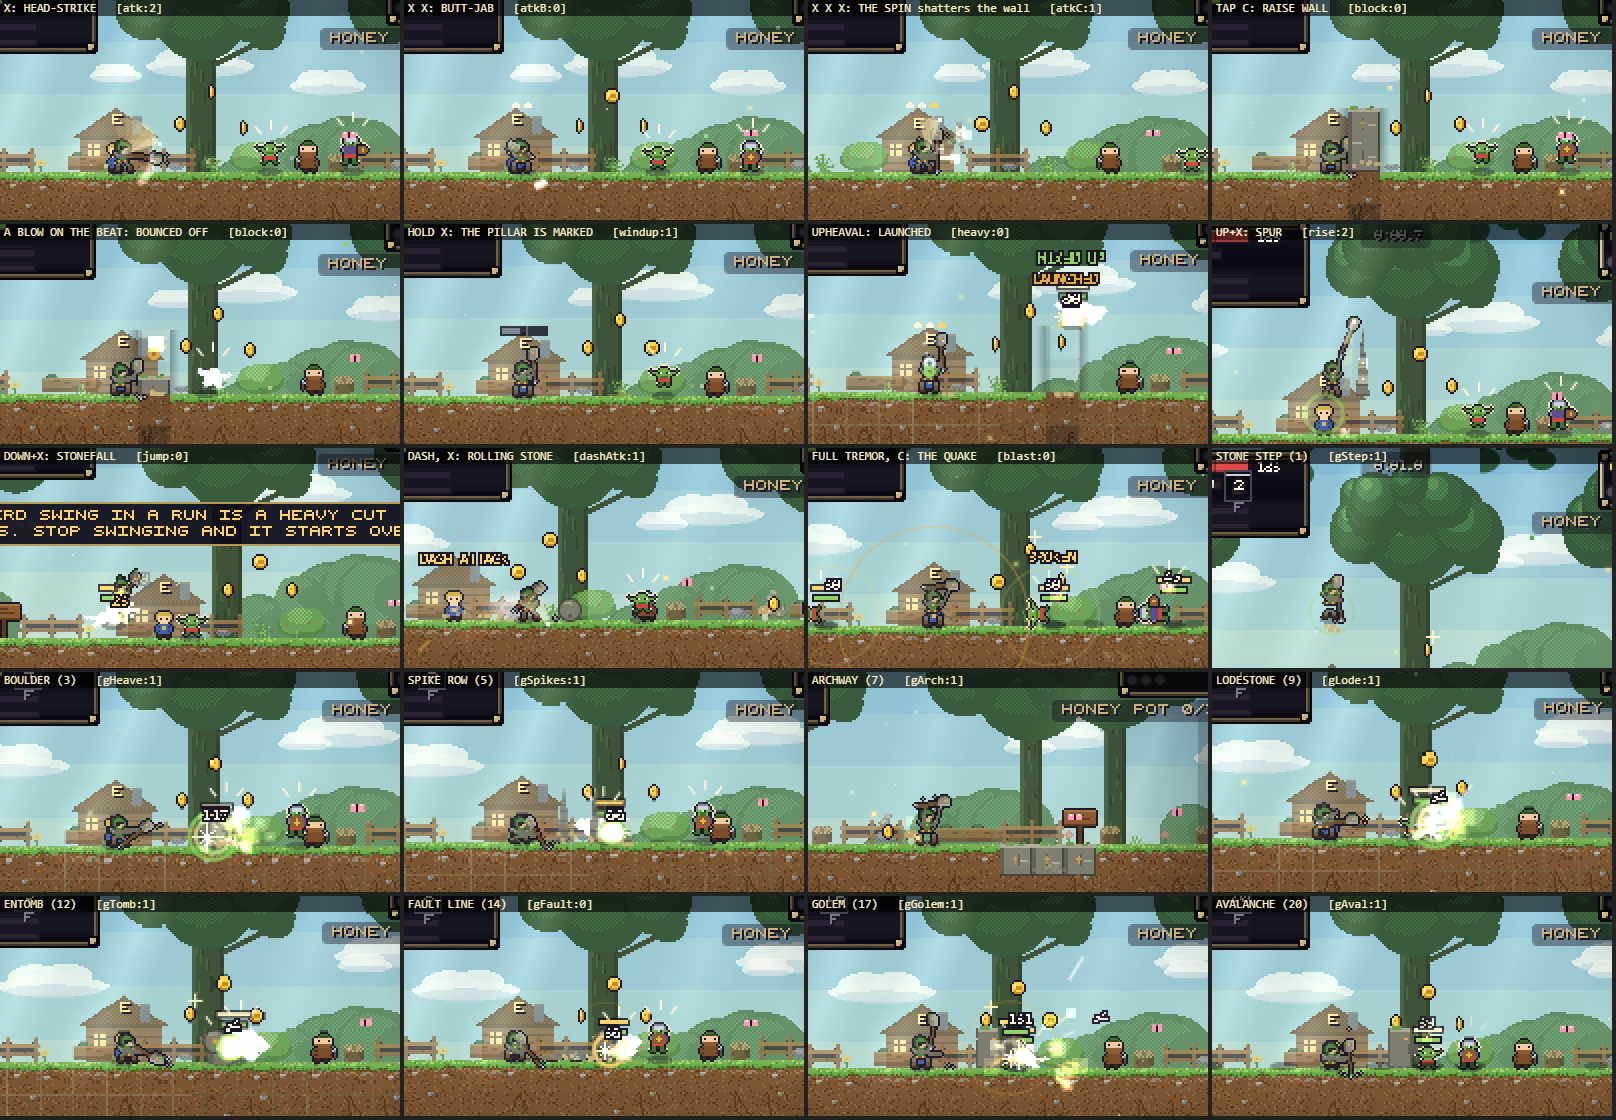
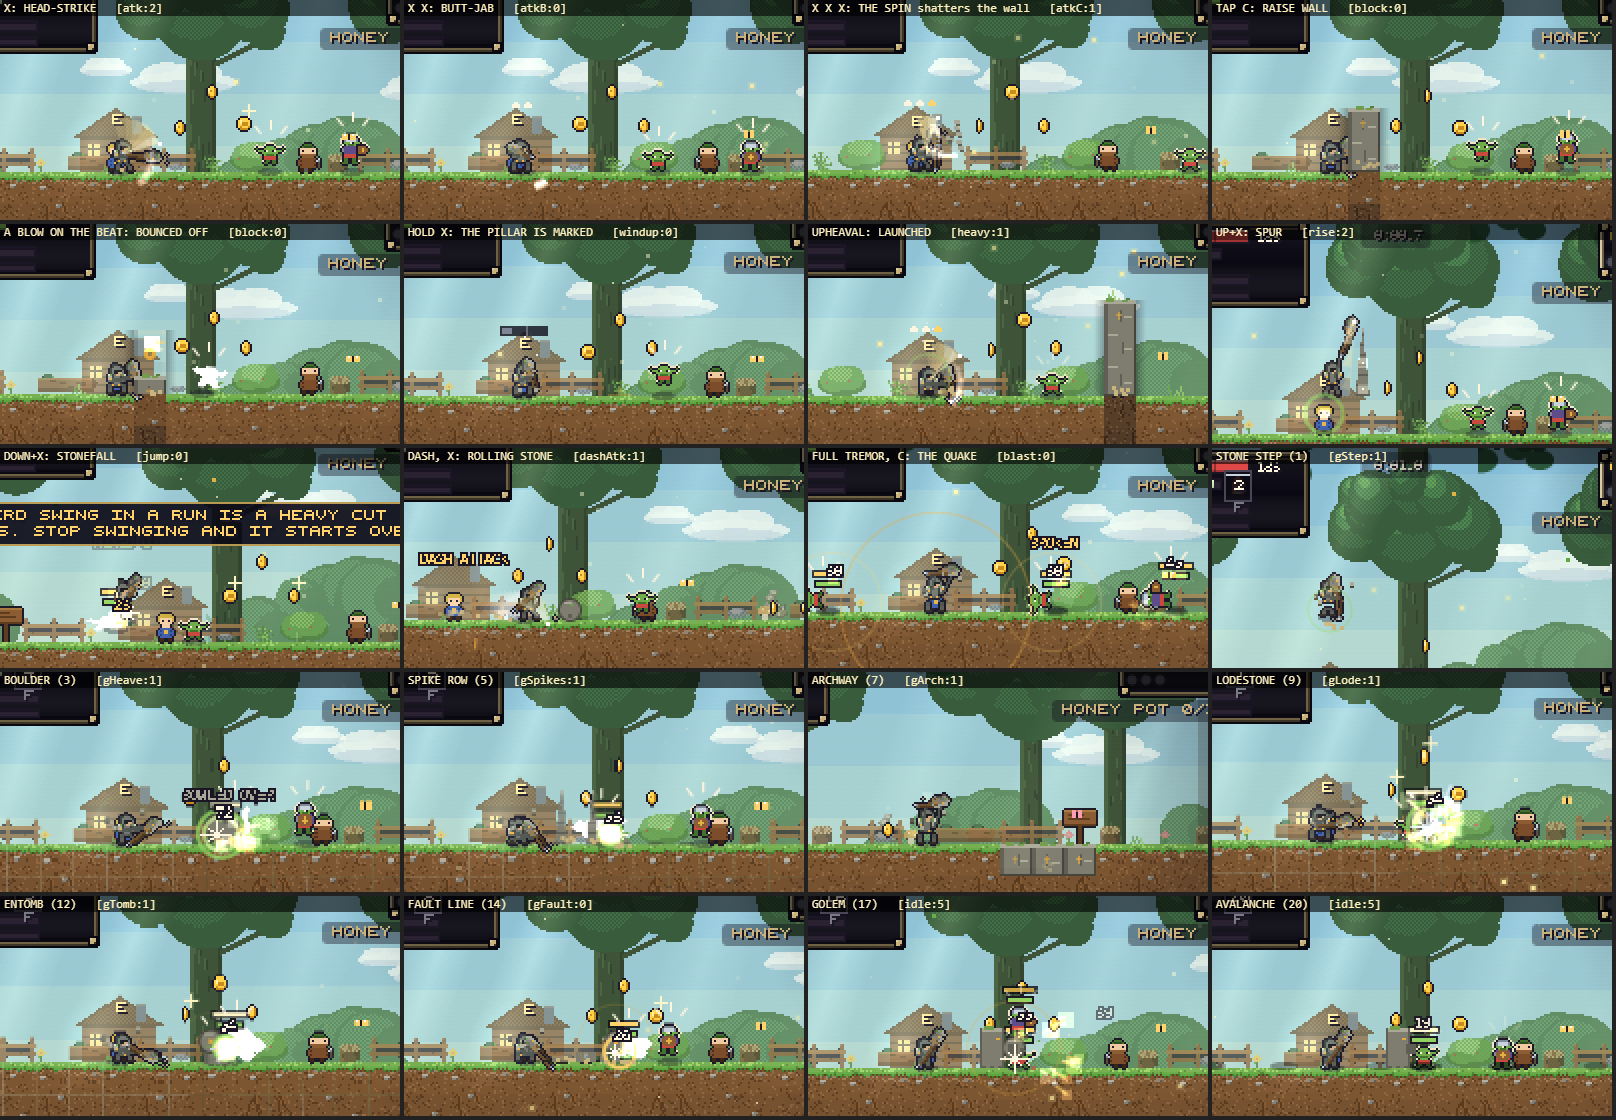
THE GEOMANCER'S SPRITE: a slate robe, rune-carved stone plates on her shoulders, and pebbles that float while she casts
Why: Daniel played her and she read as a small brown monk with a club - a recoloured mage, not someone who moves stone.
Three things now say STONE at game scale, none a colour a mage or a goblin wears: a SLATE-GREY robe and hood (so the stone
on her is the lightest thing about her), two pale RUNE-CARVED PLATES standing up past her jaw on each shoulder with a moss
crown and an amber rune, and GRIT AND PEBBLES that lift and orbit her while she winds UPHEAVAL, casts any of her nine,
mends or quakes. The standing-stone stave (polish lane) is kept.

Only the palette and the body rows changed, so every frame and pose keeps its count and timing (ability-poses,
attack-animation, starter-kits green). Before/after: docs/geomancer/frames-before.png, frames-after.png,
look-before.png, look-after.png (new tools/geomancer-look.mjs: beside the Pyromancer and the Knight, and in the first
level standing, running, winding, C held); frames.png and moves.png regenerated.

diff --git a/src/chars.js b/src/chars.js
@@ -3968,16 +3968,22 @@ export function bakeTemperer() {
    thick stave laid diagonally over the body with a standing stone for its head. The Pyromancer holds a thin staff upright
    in one hand and POINTS it; this one is two-handed, crossways, and every spell of hers starts with the iron BUTT struck
    into the ground (the heavy, block and blast frames), which is the pose that must read at sixteen pixels. ==== */
+/* A GEOMANCER, NOT A RECOLOURED MAGE (2026-09-24, the rework's sprite item: Daniel played her and she read as a small brown
+   monk with a club). Three things now say STONE at game scale, none of them a colour a mage or a goblin wears:
+   - a SLATE-GREY ROBE and hood, cool and dark, so the stone on her is the lightest thing about her;
+   - two RUNE-CARVED STONE PLATES on her shoulders, standing up past the line of her jaw like a pair of standing stones - the
+     widest, squarest thing at shoulder height in the cast, pale worked stone with a moss crown and an amber rune cut in each;
+   - the standing-stone STAVE, and grit and pebbles that lift off the ground and float round her while she casts (geomancer.js). */
 const GEO_BODY = [
   '...BBB....',     /* 0  the peak of the hood */
   '..BbbbB...',     /* 1 */
   '.BbbbbbB..',     /* 2 */
   '.Bbvvvvb..',     /* 3  the hood's mouth, in shadow */
   '.Bbvvkkb..',     /* 4  her face lit on the side she faces */
-  '..Bbkkb...',     /* 5  the jaw */
-  'mGBbbbBGm.',     /* 6  THE MANTLE: a rough stone on each shoulder, wider than any helm, moss on the outer edge of each */
-  'GgSbybSgG.',     /* 7  the amber rune-stone at her breast */
-  '.SBbbbBS..',     /* 8 */
+  'hmBbkkbmh.',     /* 5  the jaw - and the crowns of THE PLATES beside it, moss on their inner edge */
+  'ggBbbbBgg.',     /* 6  THE PLATES: a squared stone on each shoulder */
+  'gyBbbbBgy.',     /* 7  the rune cut in each, amber */
+  'GGSbbbSGG.',     /* 8  their shadowed foot, the sleeves under them */
   '..BbbbB...',     /* 9 */
   '.wywwyw...',     /* 10 the belt, studded with amber */
 ];
@@ -3989,7 +3995,8 @@ const GEO_PLUME = [
 /* THE HOOD IS GREY-BROWN HOMESPUN (2026-09-24, POLISH). It was moss green, and at game scale a green hood round a small face
    is exactly what a GOBLIN is in this game - the goblins are green. The moss stays, on the mantle's stones (m), in the stave's
    rune and on its crown; the hood and robe are undyed wool, so the one green thing on her head is gone and the face reads human. */
-const GEO_PAL = { s: '#b0ae9e', S: '#6e6c60', b: '#7a6c58', B: '#433a2e', m: '#6f9a4a', r: '#e0a040', k: '#d8ac82', w: '#6a5034', W: '#3a2c1c', y: '#e8a83a', v: '#1e1a22', g: '#8c8a7e', G: '#5a584e' };
+/* (2026-09-24, THE REWORK: the robe goes SLATE - b/B, sleeves and legs S/w - and the plates g/G/h are the pale worked stone) */
+const GEO_PAL = { s: '#8f928c', S: '#4e514d', b: '#6d706b', B: '#353735', m: '#6f9a4a', r: '#e0a040', k: '#cfa47c', w: '#5a5a54', W: '#2e2a24', y: '#e8a83a', v: '#18181c', g: '#aaa694', G: '#67645a', h: '#d6d1bc' };
 export function bakeGeomancer(skin = {}, previewOnly = false) {
   KP = Object.assign({}, KP0, GEO_PAL, skin); BODY_REF = GEO_BODY; PLUME_REF = GEO_PLUME;
   const sh = [BX + 8, BY + 7], [X, Y] = sh, OFF = [BX + 2, BY + 7], WIDE = 12;

diff --git a/src/geomancer.js b/src/geomancer.js
@@ -305,6 +305,13 @@ export function makeGeomancer(api) {
   function draw(g, cx, cy) { g.save(); g.globalAlpha = 1; g.globalCompositeOperation = 'source-over'; try { draw0(g, cx, cy); } finally { g.restore(); } }   /* whatever alpha the hero's draw left behind is not the stone's */
   function draw0(g, cx, cy) {
     const P = api.P;
+    /* GRIT AND PEBBLES LIFT OFF THE GROUND AND FLOAT ROUND HER WHILE SHE CASTS (the rework's sprite item): winding UPHEAVAL (rising
+       with the wind), any of her nine, THE MEND and THE QUAKE. Drawn behind nothing and touching nothing: it is how she reads as
+       the one who MOVES STONE, before any stone has moved */
+    if (api.isGeo() && !P.dead && !P.geoBurrow) { const kit = P.kPoseT > 0 && /^g[A-Z]/.test(P.kPoseK || ''), k = P.charge > 0 ? Math.min(1, P.charge / api.heavyWind()) : (kit || P.geoMendT > 0 || P.blastT > 0) ? 1 : 0;
+      if (k > 0) for (let i = 0; i < 5; i++) { const a = api.time * (2.2 + i * 0.3) + i * 1.26, r = 8 + (i % 3) * 3, x = Math.round(P.x - cx + Math.cos(a) * r), y = Math.round(P.y - cy - 2 - k * (6 + (i % 3) * 5) + Math.sin(a * 1.7) * 2);
+        g.fillStyle = i % 2 ? STONE.lo : STONE.hi; if (i < 3) g.fillRect(x, y, 2, 2); else g.fillRect(x, y, 1, 1);
+        if (i < 3) { g.fillStyle = STONE.dark; g.fillRect(x, y + 2, 2, 1); } } }
     for (const p of pieces) { const k = Math.min(1, p.age / GEO.rise), left = p.life - p.age, crackK = left < p.crack ? 1 - left / p.crack : 0;
       const jit = left < 0.25 ? (Math.floor(api.time * 40) % 2 ? 1 : -1) : 0, rise = Math.round((1 - k) * (p.y1 - p.y0)), set = new Set(p.cells.map(c => c.i));
       g.save(); g.beginPath(); g.rect(Math.round(p.x0 - cx) - 2, Math.round(p.y0 - cy) - 4, p.x1 - p.x0 + 4, p.y1 - p.y0 + 4); g.clip();

diff --git a/docs/briefs/geomancer.md b/docs/briefs/geomancer.md
@@ -82,8 +82,21 @@ Daniel wanted a staff, made unmistakably hers. The difference is shape, grip and
 - Proved: `tools/geomancer.mjs` `heavy` - a foe at contact is hit by the minimal charge, a full charge reaches >= 120 px,
   the pillar is gone within 0.5 s. RED on the old code (hurt 0, 64 px, still standing after 2.5 s).
 
+### 2. A sprite that reads GEOMANCER, not a recoloured mage (and not a goblin)
+- A SLATE-GREY robe and hood (src/chars.js GEO_PAL: cool, dark, so the stone on her is the lightest thing about her).
+- Two RUNE-CARVED STONE PLATES on her shoulders (GEO_BODY rows 5-8): pale worked stone standing up past the line of her
+  jaw like a pair of standing stones, a moss crown and an amber rune cut in each - the squarest thing at shoulder height
+  in the cast.
+- The standing-stone STAVE (THE STAVE, above; the polish lane's lopsided stone head kept).
+- GRIT AND PEBBLES float round her while she casts: winding UPHEAVAL (rising with the wind), any of her nine, THE MEND,
+  THE QUAKE (src/geomancer.js draw0).
+- Every frame and pose keeps its count and timing: only the palette and the body rows changed.
+- Before/after: docs/geomancer/frames-before.png / frames-after.png (every frame), docs/geomancer/look-before.png /
+  look-after.png (beside the Pyromancer and the Knight at 5x, and in the first level: standing, running, winding, C held;
+  `node tools/geomancer-look.mjs before|after`).
+
 ## Open (decide when she is built, not now)
-- Her name and look beyond the stave. (Built as THE GEOMANCER: a moss-green hood and mantle over grey stone-cloth.)
+- Her name and look beyond the stave. (Built as THE GEOMANCER; the look is now THE REWORK 2, above.)
 - ~~Whether she is a starter (free) or a cheap early unlock.~~ **DECIDED (Daniel, 2026-09-24): a STARTER - free from the
   start like the Knight and the Warden**, on the hero pick with them and always offered to player two in co-op.
 - Whether ARCHWAY/STONE STEP open "Geomancer-only" optional routes, and how many.
